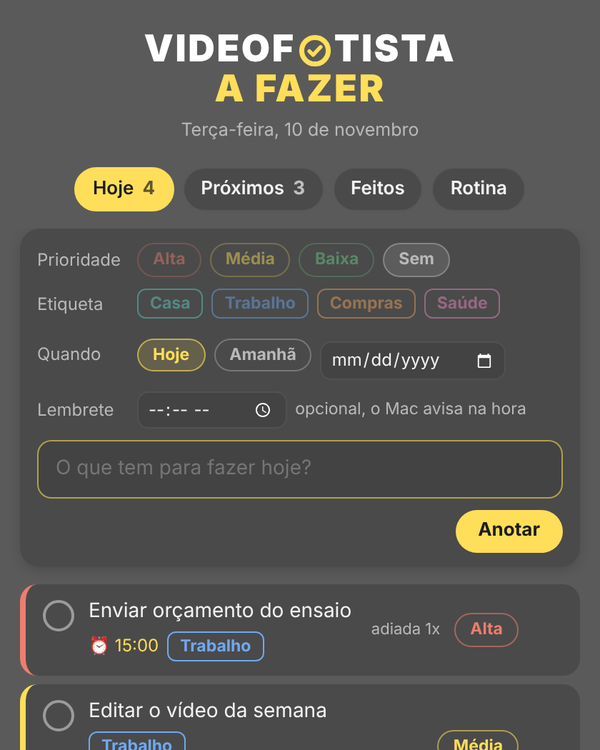
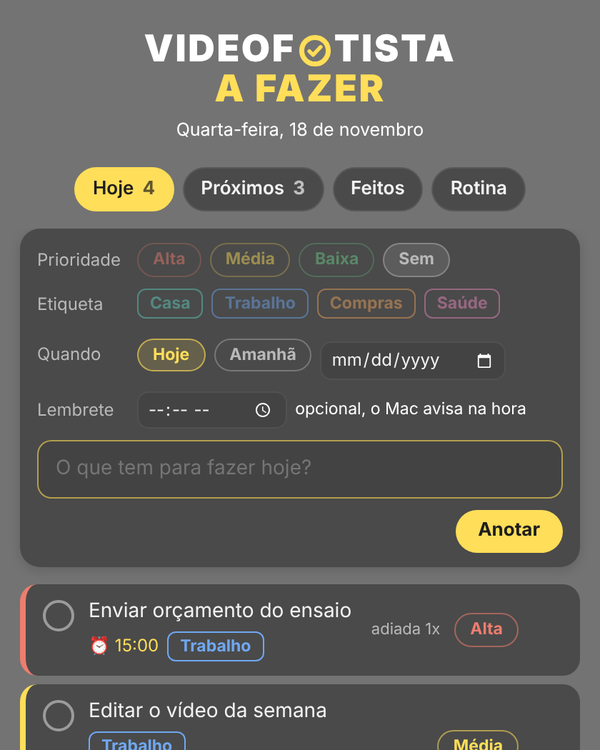
Add files via upload

diff --git a/index.html b/index.html
@@ -11,23 +11,23 @@
 <style>
 @font-face{font-family:"Rubik";src:url(f/rubik-400.woff2) format("woff2");font-weight:400;font-display:swap}
 @font-face{font-family:"Rubik";src:url(f/rubik-600.woff2) format("woff2");font-weight:600;font-display:swap}
-:root{--bg:#2f2f2f;--surface:#3d3d3d;--line:#4c4c4c;--text:#f1f1f1;--muted:#b9b9b9;--accent:#FFDE59}
+:root{--bg:#737373;--surface:#3d3d3d;--line:#4c4c4c;--text:#f1f1f1;--muted:#b9b9b9;--accent:#FFDE59}
 *{box-sizing:border-box}
 html{-webkit-text-size-adjust:100%}
 body{margin:0;background:var(--bg);color:var(--text);font:17px/1.6 Rubik,-apple-system,"Segoe UI",Helvetica,Arial,sans-serif}
 a{color:inherit}
 .wrap{max-width:980px;margin:0 auto;padding:0 20px}
 header{padding:26px 0 0}
-.topo{display:flex;justify-content:space-between;align-items:center;gap:12px;font-size:14px;color:var(--muted)}
+.topo{display:flex;justify-content:space-between;align-items:center;gap:12px;font-size:14px;color:#fff}
 .topo a{text-decoration:none}
 .topo a:hover{color:var(--accent)}
 .topo .marca-site{font-family:-apple-system,BlinkMacSystemFont,"SF Pro Display","Helvetica Neue",Arial,sans-serif;font-weight:900;letter-spacing:1.2px;color:var(--text);font-size:16px}
 .hero{text-align:center;padding:56px 0 34px}
 h1{font-family:-apple-system,BlinkMacSystemFont,"SF Pro Display","Helvetica Neue",Arial,sans-serif;font-weight:900;letter-spacing:1.5px;text-transform:uppercase;line-height:1.05;margin:0;font-size:clamp(34px,6.4vw,62px)}
 h1 span{display:block;color:var(--accent)}
-.hero p{max-width:600px;margin:20px auto 0;color:var(--muted);font-size:18px}
+.hero p{max-width:600px;margin:20px auto 0;color:#fff;font-size:18px}
 .selos{display:flex;flex-wrap:wrap;justify-content:center;gap:8px;margin-top:22px}
-.selo{border:1px solid var(--line);border-radius:99px;padding:6px 14px;font-size:14px;color:var(--text)}
+.selo{border:1px solid rgba(255,255,255,.4);border-radius:99px;padding:6px 14px;font-size:14px;color:var(--text)}
 .apps{display:grid;gap:22px;padding:10px 0 20px}
 .app{background:var(--surface);border:1px solid var(--line);border-radius:20px;display:grid;grid-template-columns:1.25fr 1fr;overflow:hidden}
 .app .info{padding:30px 30px 28px}
@@ -59,9 +59,9 @@ h1 span{display:block;color:var(--accent)}
 .app.breve p{color:var(--muted);margin:14px 0 0}
 .contato{text-align:center;padding:40px 0 10px}
 .contato h3{font-family:-apple-system,BlinkMacSystemFont,"SF Pro Display","Helvetica Neue",Arial,sans-serif;font-weight:900;letter-spacing:1.2px;text-transform:uppercase;font-size:28px;margin:0}
-.contato p{color:var(--muted);margin:8px 0 18px}
+.contato p{color:#fff;margin:8px 0 18px}
 .contato .bts{justify-content:center}
-footer{border-top:1px solid var(--line);margin-top:44px;padding:26px 0 40px;text-align:center;color:var(--muted);font-size:14px}
+footer{border-top:1px solid rgba(255,255,255,.3);margin-top:44px;padding:26px 0 40px;text-align:center;color:#fff;font-size:14px}
 footer nav{display:flex;flex-wrap:wrap;justify-content:center;gap:8px 22px;margin-bottom:12px}
 footer nav a{text-decoration:none;color:var(--text)}
 footer nav a:hover{color:var(--accent)}
@@ -85,7 +85,7 @@ footer nav a:hover{color:var(--accent)}
 
 <main class="wrap">
   <section class="hero">
-    <h1>Apps de presente<span>do Videofotista</span></h1>
+    <h1>Apps do<span>Videofotista</span></h1>
     <p>Programas simples que eu fiz para o meu dia a dia e agora dou de presente. Use à vontade.</p>
     <div class="selos"><span class="selo">Grátis</span><span class="selo">Sem propaganda</span><span class="selo">Sem cadastro</span><span class="selo">Seus dados ficam com você</span></div>
   </section>
